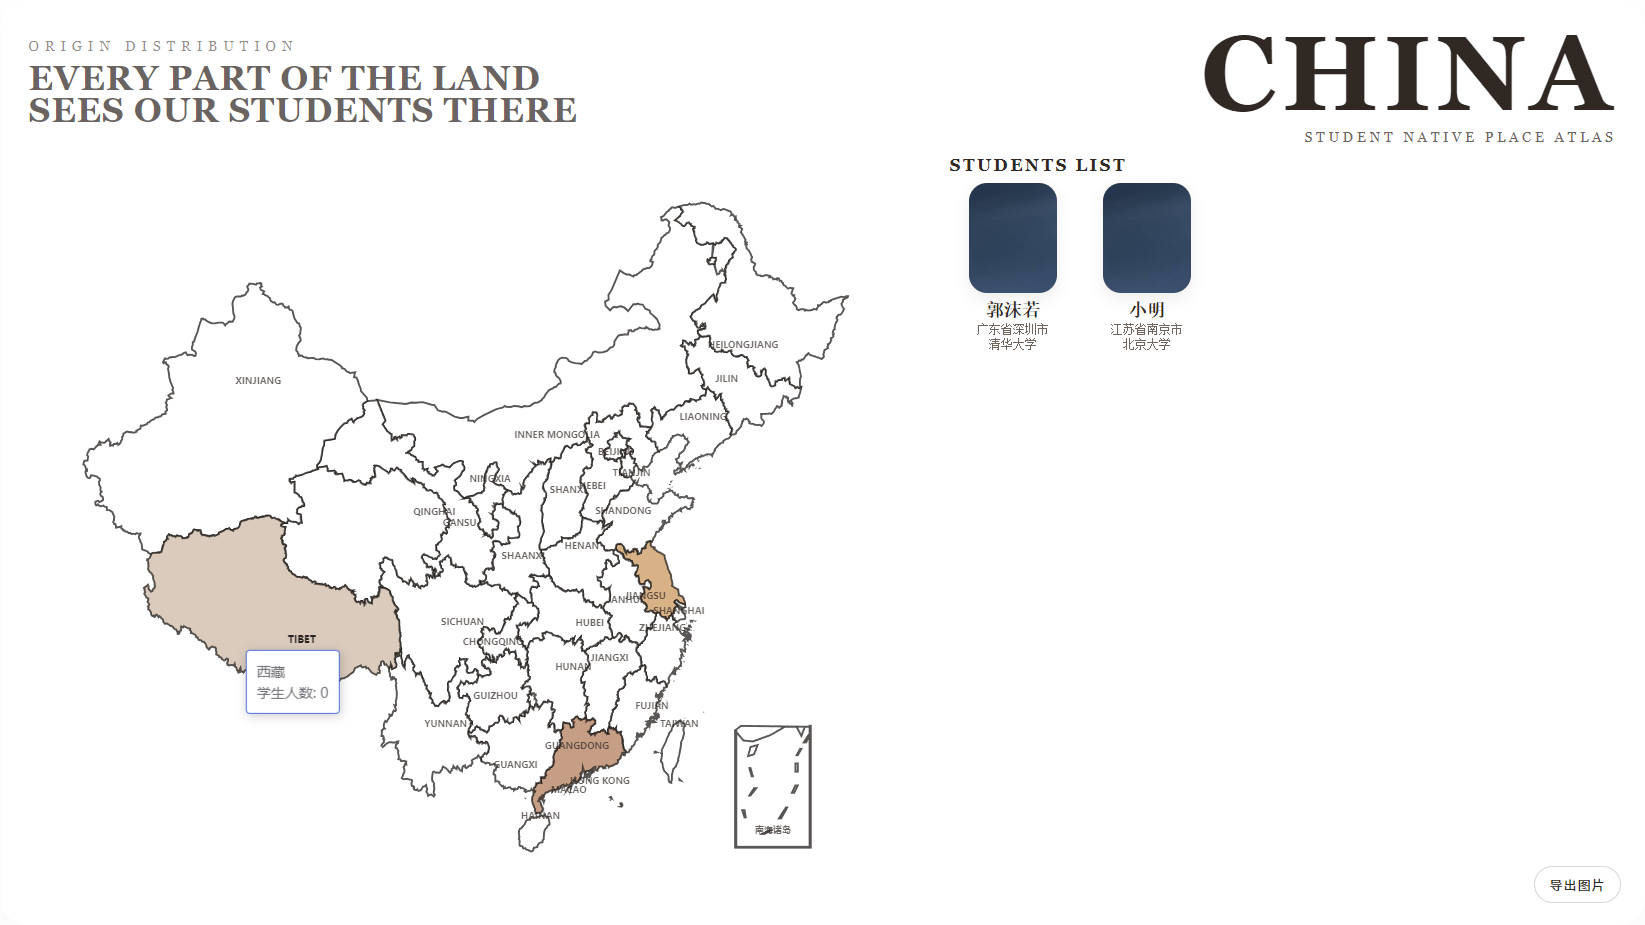
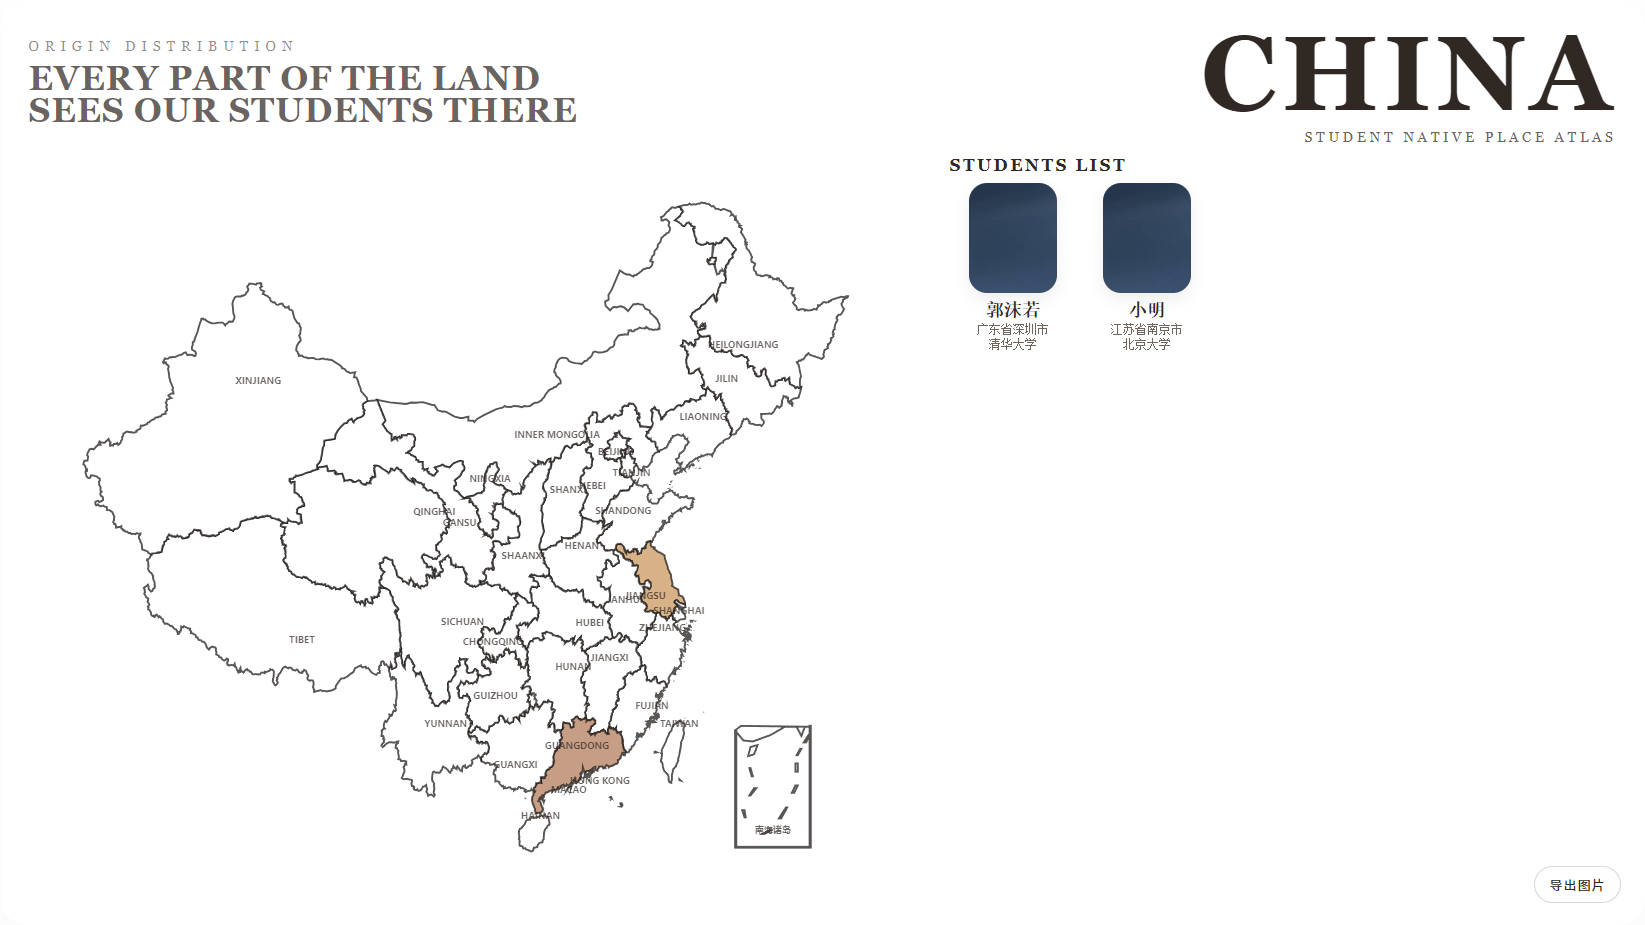
修正

Changed region(s): [[0.093, 0.5449, 0.248, 0.787]]

diff --git a/README.md b/README.md
@@ -20,6 +20,7 @@
 本项目参考自[xiaofan9](https://github.com/xiaofan9/echarts-china-map)
 
 ## 效果预览
-![示意图](example.jpg)
+![index示意图](example1.jpg)
+![class示意图](example.jpg)
 
 
